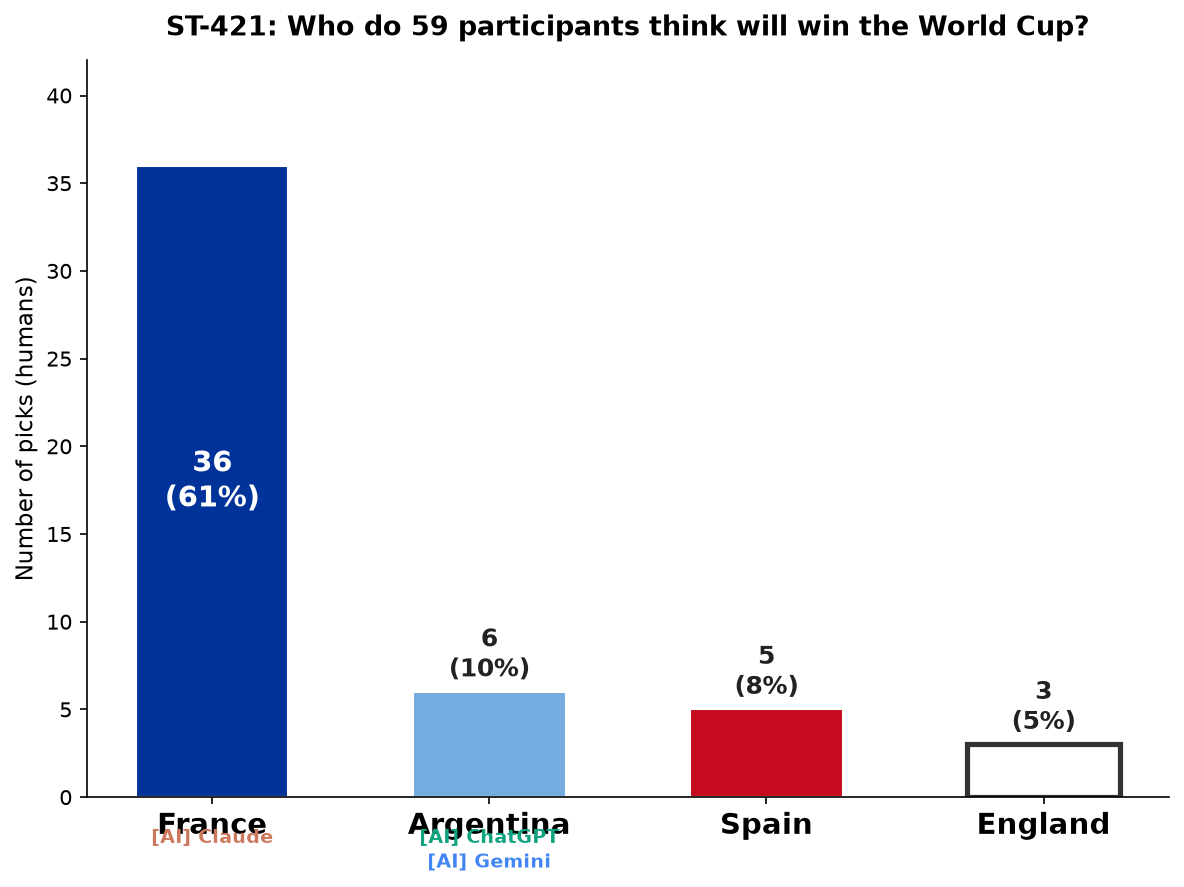
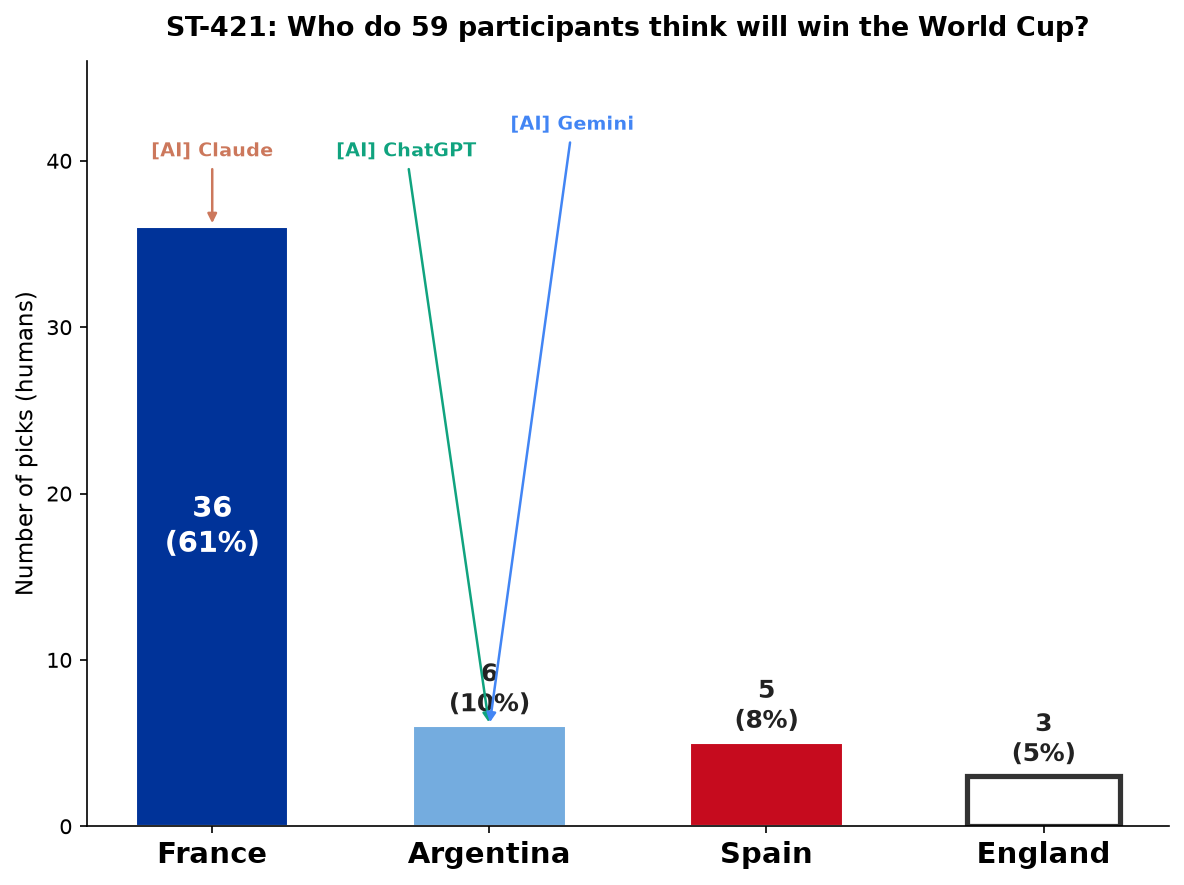
fix(fifa-2026): move AI pick annotations above bars with arrows

diff --git a/scripts/finals_blog_plots.py b/scripts/finals_blog_plots.py
@@ -464,29 +464,40 @@ def plot_st421_winner_simple(st_rows):
             ax.text(i, val + 0.4, f"{val}\n({pct}%)",
                     ha="center", va="bottom", fontsize=12, fontweight="bold", color="#222")
 
-    # Annotate AI picks below the x-axis, stacked per bar
-    # Build a mapping: team -> list of (display_name, color)
+    # Annotate AI picks with arrows from clear space above → bar top
     ai_by_team = {t: [] for t in alive_order}
     for ai_name, pick in ai_winner_picks.items():
         if pick in ai_by_team:
             disp, col = AI_DISPLAY[ai_name]
             ai_by_team[pick].append((disp, col))
 
-    y_base = -1.8   # starting y below axis (in data coords)
-    y_step = -1.4
+    max_val = max(vals)
+    text_y_base = max_val + 4   # labels float in clear space above all bars
 
     for i, team in enumerate(alive_order):
-        for j, (disp, col) in enumerate(ai_by_team[team]):
-            ax.text(i, y_base + j * y_step, f"[AI] {disp}",
-                    ha="center", va="top", fontsize=9, fontweight="bold",
-                    color=col, clip_on=False, transform=ax.transData)
+        entries = ai_by_team[team]
+        n = len(entries)
+        # Spread labels horizontally around the bar centre
+        offsets = np.linspace(-0.3 * (n - 1), 0.3 * (n - 1), n) if n > 1 else [0.0]
+        bar_val = vals[i]
+        for j, ((disp, col), x_off) in enumerate(zip(entries, offsets)):
+            label_y = text_y_base + j * 1.6
+            ax.annotate(
+                f"[AI] {disp}",
+                xy=(i, bar_val),                    # arrow tip: bar top
+                xytext=(i + x_off, label_y),        # label position
+                ha="center", va="bottom",
+                fontsize=9, fontweight="bold", color=col,
+                arrowprops=dict(arrowstyle="-|>", color=col, lw=1.2,
+                                connectionstyle="arc3,rad=0.0"),
+            )
 
     ax.set_xticks(range(len(alive_order)))
     ax.set_xticklabels(alive_order, fontsize=14, fontweight="bold")
     ax.set_ylabel("Number of picks (humans)", fontsize=11)
     ax.set_title(f"ST-421: Who do {n_h} participants think will win the World Cup?",
                  fontsize=13, fontweight="bold", pad=12)
-    ax.set_ylim(0, max(vals) + 6)
+    ax.set_ylim(0, max_val + 10)
     ax.spines["top"].set_visible(False)
     ax.spines["right"].set_visible(False)
 
